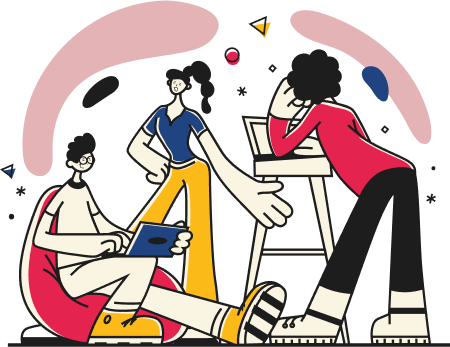
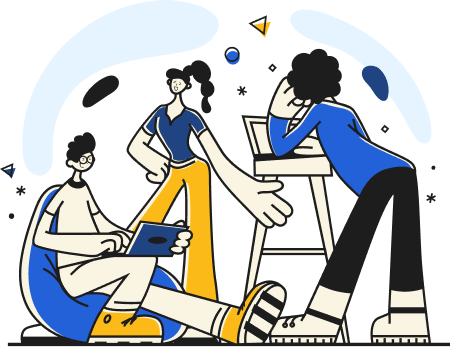
page coworkings

diff --git a/js/coworkings.js b/js/coworkings.js
@@ -7,17 +7,17 @@ function mostrarToastEspacoBloqueado() {
   const inner = document.getElementById('toast-espaco-bloqueado-inner');
   if (!wrapper || !inner) return;
 
-  
+
   wrapper.classList.remove('hidden');
 
- 
+
   void inner.offsetWidth;
 
- 
+
   inner.classList.remove('opacity-0', 'translate-y-3');
   inner.classList.add('opacity-100', 'translate-y-0');
 
-  
+
   if (toastTimeoutId) clearTimeout(toastTimeoutId);
 
 
@@ -25,7 +25,7 @@ function mostrarToastEspacoBloqueado() {
     inner.classList.remove('opacity-100', 'translate-y-0');
     inner.classList.add('opacity-0', 'translate-y-3');
 
-    
+
     setTimeout(() => {
       wrapper.classList.add('hidden');
     }, 300);
@@ -37,7 +37,7 @@ function formatarTelefoneBrasil(telefoneBruto) {
 
   const digits = telefoneBruto.replace(/\D/g, '');
 
-  
+
   if (digits.length === 11) {
     const ddd = digits.slice(0, 2);
     const parte1 = digits.slice(2, 7);
@@ -45,7 +45,7 @@ function formatarTelefoneBrasil(telefoneBruto) {
     return `(${ddd}) ${parte1}-${parte2}`;
   }
 
-  
+
   if (digits.length === 10) {
     const ddd = digits.slice(0, 2);
     const parte1 = digits.slice(2, 6);
@@ -53,21 +53,21 @@ function formatarTelefoneBrasil(telefoneBruto) {
     return `(${ddd}) ${parte1}-${parte2}`;
   }
 
-  
+
   if (digits.length === 9) {
     const parte1 = digits.slice(0, 5);
     const parte2 = digits.slice(5);
     return `${parte1}-${parte2}`;
   }
 
-  
+
   if (digits.length === 8) {
     const parte1 = digits.slice(0, 4);
     const parte2 = digits.slice(4);
     return `${parte1}-${parte2}`;
   }
 
-  
+
   return telefoneBruto;
 }
 
@@ -83,7 +83,7 @@ function formatarEndereco(instalacao) {
     e.bairro,
     cidade.nome,
     estado.sigla,
-  ].filter(Boolean); 
+  ].filter(Boolean);
 
   return partes.join(', ');
 }
@@ -98,8 +98,8 @@ function criarCardInstalacao(instalacao) {
     instalacao?.nomeFantasia || instalacao?.razaoSocial || 'Espaço';
 
   const telefoneBruto = instalacao?.telefone;
-const telefone =
-  formatarTelefoneBrasil(telefoneBruto) || '(00) 00000-0000';
+  const telefone =
+    formatarTelefoneBrasil(telefoneBruto) || '(00) 00000-0000';
   const endereco = formatarEndereco(instalacao) || 'Endereço não informado';
   const imagem =
     instalacao?.capa || instalacao?.logo || 'https://placehold.co/400x300/EAEAEA/333333?text=Espa%C3%A7o';
@@ -108,10 +108,10 @@ const telefone =
     <img src="${imagem}" alt="Imagem do ${nome}"
         class="w-full h-36 object-cover rounded-xl">
     <div class="pt-5 flex flex-col flex-grow">
-        <h3 class="font-bold text-xl text-theme-pink mb-4">${nome}</h3>
+        <h3 class="font-bold text-xl text-theme-blue mb-4">${nome}</h3>
         <ul class="space-y-3 text-sm text-gray-500 mb-5 flex-grow">
             <li class="flex items-start gap-2.5">
-                <svg class="w-4 h-4 mt-0.5 text-theme-pink flex-shrink-0" fill="none"
+                <svg class="w-4 h-4 mt-0.5 text-theme-blue flex-shrink-0" fill="none"
                     stroke="currentColor" viewBox="0 0 24 24" xmlns="http://www.w3.org/2000/svg">
                     <path stroke-linecap="round" stroke-linejoin="round" stroke-width="2"
                         d="M3 5a2 2 0 012-2h3.28a1 1 0 01.948.684l1.498 4.493a1 1 0 01-.502 1.21l-2.257 1.13a11.042 11.042 0 005.516 5.516l1.13-2.257a1 1 0 011.21-.502l4.493 1.498a1 1 0 01.684.949V19a2 2 0 01-2 2h-1C9.716 21 3 14.284 3 6V5z">
@@ -120,7 +120,7 @@ const telefone =
                 <span>${telefone}</span>
             </li>
             <li class="flex items-start gap-2.5">
-                <svg class="w-4 h-4 mt-0.5 text-theme-pink flex-shrink-0" fill="none"
+                <svg class="w-4 h-4 mt-0.5 text-theme-blue flex-shrink-0" fill="none"
                     stroke="currentColor" viewBox="0 0 24 24" xmlns="http://www.w3.org/2000/svg">
                     <path stroke-linecap="round" stroke-linejoin="round" stroke-width="2"
                         d="M17.657 16.657L13.414 20.9a1.998 1.998 0 01-2.827 0l-4.244-4.243a8 8 0 1111.314 0zM12 11a2 2 0 100-4 2 2 0 000 4z">
@@ -128,11 +128,10 @@ const telefone =
                 </svg>
                 <span>${endereco}</span>
             </li>
-            ${
-              instalacao.infoAdicional
-                ? `
+            ${instalacao.infoAdicional
+      ? `
             <li class="flex items-start gap-2.5">
-                <svg class="w-4 h-4 mt-0.5 text-theme-pink flex-shrink-0" fill="none"
+                <svg class="w-4 h-4 mt-0.5 text-theme-blue flex-shrink-0" fill="none"
                     stroke="currentColor" viewBox="0 0 24 24" xmlns="http://www.w3.org/2000/svg">
                     <path stroke-linecap="round" stroke-linejoin="round" stroke-width="2"
                         d="M13 16h-1v-4h-1m1-4h.01M21 12a9 9 0 11-18 0 9 9 0 0118 0z"></path>
@@ -140,13 +139,13 @@ const telefone =
                 <span>${instalacao.infoAdicional}</span>
             </li>
             `
-                : ''
-            }
+      : ''
+    }
         </ul>
         <a
             href="#"
             data-toast-reservar="true"
-            class="mt-auto text-center w-full border-2 border-theme-pink text-theme-pink font-bold py-2 px-4 rounded-full hover:bg-theme-pink hover:text-white transition-colors duration-300"
+            class="mt-auto text-center w-full border-2 border-theme-pink text-theme-blue font-bold py-2 px-4 rounded-full hover:underline"
         >
             Reservar &rarr;
         </a>

diff --git a/coworkings.html b/coworkings.html
@@ -32,15 +32,15 @@
          * variação '-bg' mais clara para fundos.
          */
       :root {
-        /* Paleta Principal (Azuis) */
-        --theme-primary-dark: #023059;
-        --theme-primary-dark-bg: #e6eaf0;
-        --theme-primary-main: #204482;
-        --theme-primary-main-bg: #e8ebf2;
-        --theme-primary-bright: #2361d8;
-        --theme-primary-bright-bg: #e9effc;
-        --theme-primary-alt: #00509b;
-        --theme-primary-alt-bg: #e6eef5;
+       /* Paleta Principal (Azuis) */
+            --theme-primary-dark: #023059;
+            --theme-primary-dark-bg: #E6EAF0;
+            --theme-primary-main: #204482;
+            --theme-primary-main-bg: #E8EBF2;
+            --theme-primary-bright: #2361D8;
+            --theme-primary-bright-bg: #E9EFFC;
+            --theme-primary-alt: #00509b;
+            --theme-primary-alt-bg: #E5F4FF;
 
         /* Paleta Secundária (Vermelhos/Laranjas) */
         --theme-secondary-orange: #e14d27;
@@ -101,13 +101,13 @@
       }
 
       /* Classes de Utilitário para o Tema Rosa (Legado e Corrigido) */
-      .bg-theme-pink-light {
-        background-color: var(--theme-pink-bg);
+      .bg-theme-primary-alt-bg {
+        background-color: var(--theme-primary-alt-bg);
       }
 
-      .text-theme-pink {
+      .text-theme-blue {
         /* REGRA ADICIONADA */
-        color: var(--theme-pink);
+        color: var(--theme-primary-bright);
       }
 
       .text-crea-blue-bright {
@@ -177,8 +177,8 @@
         <div class="text-2xl font-bold tracking-wider text-crea-blue">
           <a href="index.html"
             ><img
-              src="img/componentes/logo-superior-crea-lab-mg-azul-padrao.png"
-              width="200rem"
+              src="img/componentes/logo-superior-crea-lab-mg.png"
+              width="100rem"
           /></a>
         </div>
 
@@ -289,7 +289,7 @@
             <p class="text-theme-primary-main leading-relaxed mb-2">
               <!-- CLASSE CORRIGIDA -->
               O Crea-MG disponibiliza
-              <strong class="text-theme-pink"
+              <strong class="text-theme-blue"
                 >salas, auditórios e estações de trabalho</strong
               >
               para os profissionais regularmente registrados e adimplentes no
@@ -302,7 +302,7 @@
               Os espaços são uma iniciativa do Crea-MG com o objetivo de
               modernizar os processos institucionais e integrar de forma mais
               eficiente as inspetorias,
-              <strong class="text-theme-pink"
+              <strong class="text-theme-blue"
                 >facilitando o acesso e promovendo mais praticidade</strong
               >
               no dia a dia.
@@ -321,7 +321,7 @@
     <!-- Seção: Conheça nossos espaços -->
     <section
       id="espacos"
-      class="w-full bg-theme-pink-light pb-16 sm:pb-24 pt-8 sm:pt-12"
+      class="w-full bg-theme-primary-alt-bg pb-16 sm:pb-24 pt-8 sm:pt-12"
     >
       <div class="max-w-6xl mx-auto px-4 sm:px-6 lg:px-8">
         <!-- Título da Seção -->
